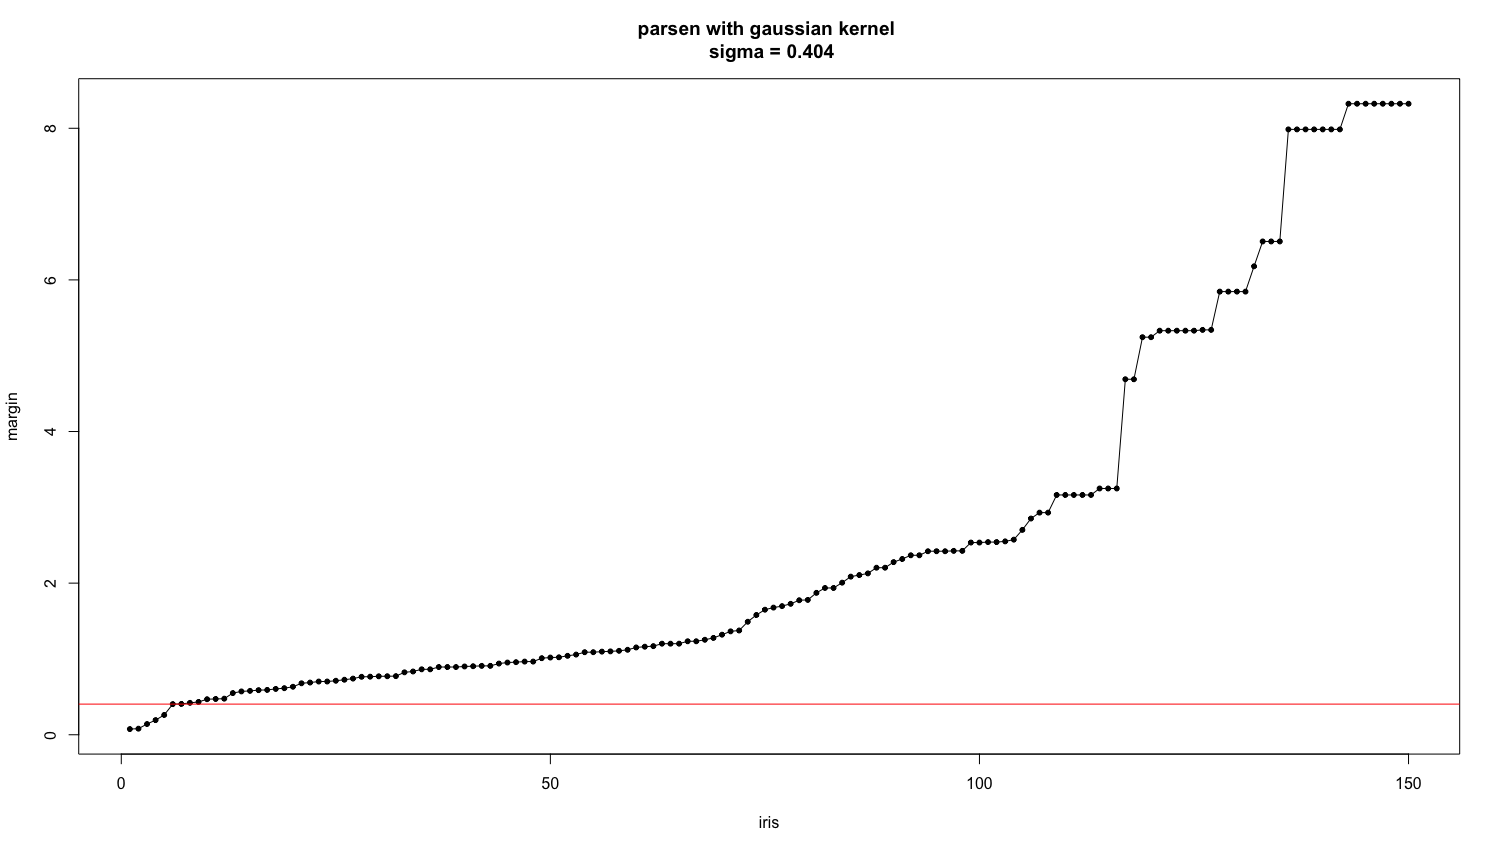
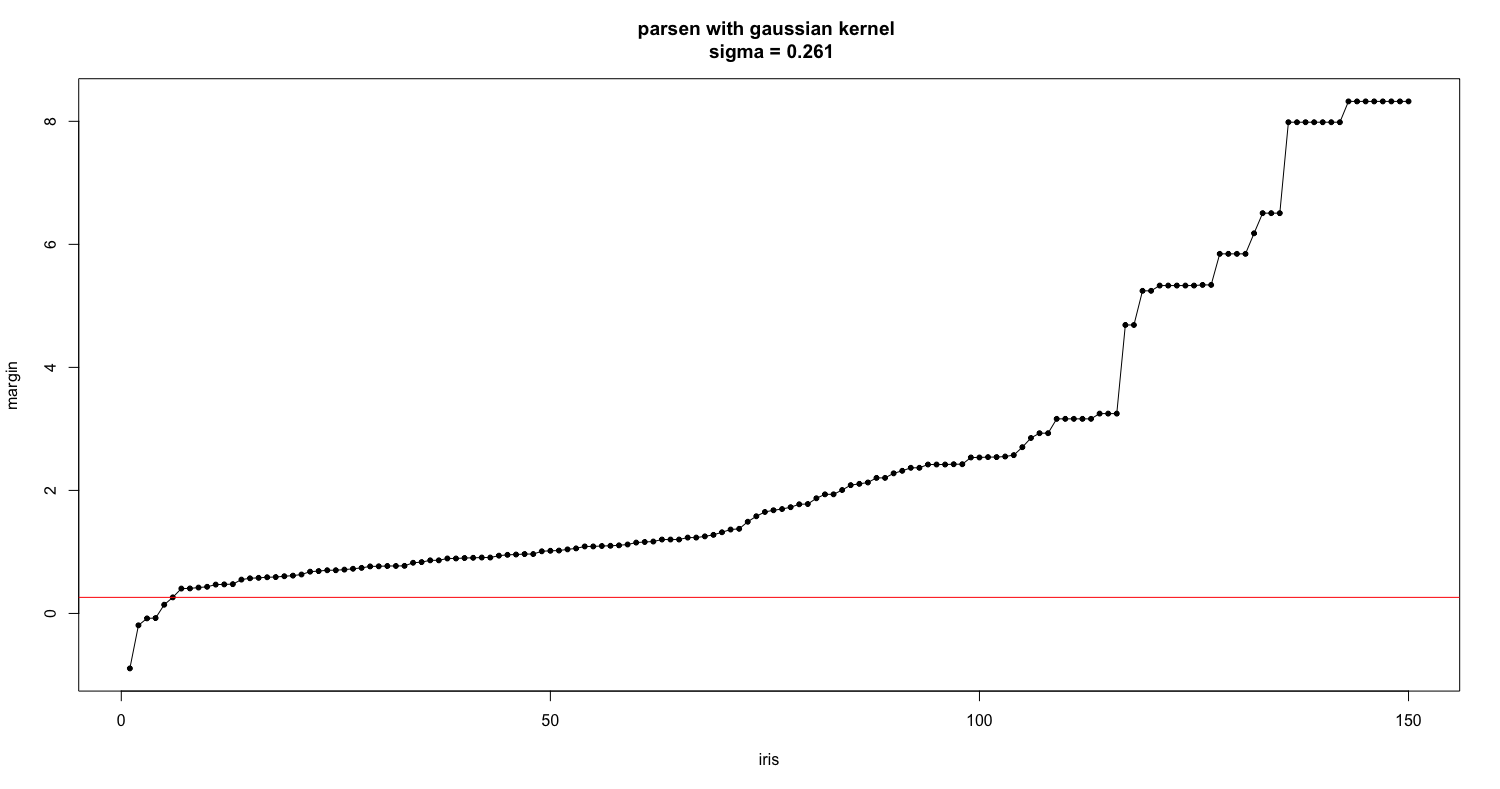
fixed bug in stolp and changed screens

diff --git a/metric_classification/stolp/README.md b/metric_classification/stolp/README.md
@@ -14,7 +14,7 @@
 
 ## Построение графика для объектов обучения относительно Парзеновского классификатора с Гауссовским ядром
 
-```
+```R
 margin <- function(x, my_iris, k) {
   l <- dim(my_iris)[1]
   n <- dim(my_iris)[2] - 1
@@ -48,7 +48,7 @@ margin <- function(x, my_iris, k) {
 
 ### Описание работы алгоритма:
 1. Создаем n множеств и добавляем в каждое из них объекты одного класса. Для каждого объекта считаем его отступ. Множеств обозначим <img src="https://latex.codecogs.com/gif.latex?{\color{Red}&space;\Phi_n}" title="{\color{Red} \Phi_n}" />.
-2. Отбросить все выбросы, т.е. объекты у которых <img src="https://latex.codecogs.com/gif.latex?{\color{Red}W >\delta}" title="\delta" />.
+2. Отбросить все выбросы, т.е. объекты у которых <img src="https://latex.codecogs.com/gif.latex?\color{Red}W&space;>\delta" title="\color{Red}W >\delta" />
 3. Сформировать <img src="https://latex.codecogs.com/gif.latex?{\color{Red}\Omega}" title="\Omega" />. Из каждого класса выбираем объект с наименьшей величиной риска.
 4. Наращиваем множество этолонов <img src="https://latex.codecogs.com/gif.latex?{\color{Red}\Omega}" title="\Omega" /> до тех пор, пока число объектов выборки <img src="https://latex.codecogs.com/gif.latex?{\color{Red}X^l}" title="X^l" /> классифицируемых неправльно не станет меньше, чем <img src="https://latex.codecogs.com/gif.latex?{\color{Red}l_0}" title="l_0" />:
 +  Выбираем класс, объекты которого чаще других распознаются неправильно. В этом классе выбираем объект с максимальной величиной риска и добавляем его во множество эталонов,
@@ -63,36 +63,64 @@ margin <- function(x, my_iris, k) {
 4. Алгоритм классификации <img src="https://latex.codecogs.com/gif.latex?{\color{Red}a}" title="a" /> - __окно парзена с гауссовским окном(h=0.1)__,
 5. Формула для вычисления риска <img src="https://latex.codecogs.com/gif.latex?{\color{Red}W} =- {\mathbf M(x_i,\Omega&space;)}" title="M(x_i,\Omega )">.
 
-| Количество элементов  во множестве эталонов | Ошибка |
-| ------ |----------------|
-| 3      | 11/150 = 0.07  |
-| 4      | 6/150 = 0.04   |
-| 5      | 6/150 = 0.04   |
-| 6      | 6/150 = 0.04   |
-| 7      | 6/150 = 0.04   |
-| 8      | 6/150 = 0.04   |
-| 9      | 4/150 = 0.03   |
+[1] "3  ||||  false positive =  8 / 150  =  0.053"
+[1] "4  ||||  false positive =  7 / 150  =  0.047"
+[1] "5  ||||  false positive =  7 / 150  =  0.047"
+[1] "6  ||||  false positive =  7 / 150  =  0.047"
+[1] "7  ||||  false positive =  7 / 150  =  0.047"
+[1] "8  ||||  false positive =  7 / 150  =  0.047"
+[1] "9  ||||  false positive =  5 / 150  =  0.033"
+[1] "10  ||||  false positive =  5 / 150  =  0.033"
+[1] "11  ||||  false positive =  5 / 150  =  0.033"
+[1] "12  ||||  false positive =  5 / 150  =  0.033"
+[1] "13  ||||  false positive =  4 / 150  =  0.027"
 
-### Шаг 1: __3 объекта__ во множестве эталонов, __точность 0.07__
-<img src="img/parsen_1.png">
+| Шаг | Количество элементов  во множестве эталонов | Ошибка |
+| --- | ------ |----------------|
+| 1   | 3      | 8/150 = 0.053  |
+| 2   | 4      | 7/150 = 0.047   |
+| 3   | 5      | 7/150 = 0.047   |
+| 4   | 6      | 7/150 = 0.047   |
+| 5   | 7      | 7/150 = 0.047   |
+| 6   | 8      | 7/150 = 0.047   |
+| 7   | 9      | 5/150 = 0.033   |
+| 8   | 10     | 5/150 = 0.033   |
+| 9   | 11     | 5/150 = 0.033   |
+| 10  | 12     | 5/150 = 0.033   |
+| 11  | 13     | 4/150 = 0.027   |
 
-### Шаг 2: __4 объекта__ во множестве эталонов, __точность 0.04__
-<img src="img/parsen_2.png">
+### Шаг 1: __3 объекта__ во множестве эталонов, __точность 0.053__
+<img src="img/parsen_01.png">
 
-### Шаг 3: __5 объектов__ во множестве эталонов, __точность 0.04__
-<img src="img/parsen_3.png">
+### Шаг 2: __4 объекта__ во множестве эталонов, __точность 0.047__
+<img src="img/parsen_02.png">
 
-### Шаг 4: __6 объектов__ во множестве эталонов, __точность 0.04__
-<img src="img/parsen_4.png">
+### Шаг 3: __5 объектов__ во множестве эталонов, __точность 0.047__
+<img src="img/parsen_03.png">
 
-### Шаг 5: __7 объектов__ во множестве эталонов, __точность 0.04__
-<img src="img/parsen_5.png">
+### Шаг 4: __6 объектов__ во множестве эталонов, __точность 0.047__
+<img src="img/parsen_04.png">
 
-### Шаг 6: __8 объектов__ во множестве эталонов, __точность 0.04__
-<img src="img/parsen_6.png">
+### Шаг 5: __7 объектов__ во множестве эталонов, __точность 0.047__
+<img src="img/parsen_05.png">
 
-### Шаг 7: __9 объектов__ во множестве эталонов, __точность 0.03__
-<img src="img/parsen_7.png">
+### Шаг 6: __8 объектов__ во множестве эталонов, __точность 0.047__
+<img src="img/parsen_06.png">
+
+### Шаг 7: __9 объектов__ во множестве эталонов, __точность 0.033__
+<img src="img/parsen_07.png">
+
+### Шаг 8: __10 объектов__ во множестве эталонов, __точность 0.033__
+<img src="img/parsen_08.png">
+
+### Шаг 9: __11 объектов__ во множестве эталонов, __точность 0.033__
+<img src="img/parsen_09.png">
+
+### Шаг 10: __12 объектов__ во множестве эталонов, __точность 0.033__
+<img src="img/parsen_10.png">
+
+### Шаг 11: __13 объектов__ во множестве эталонов, __точность 0.027__
+<img src="img/parsen_11.png">
 
 ## Сравнение скорости работы и точности
 
